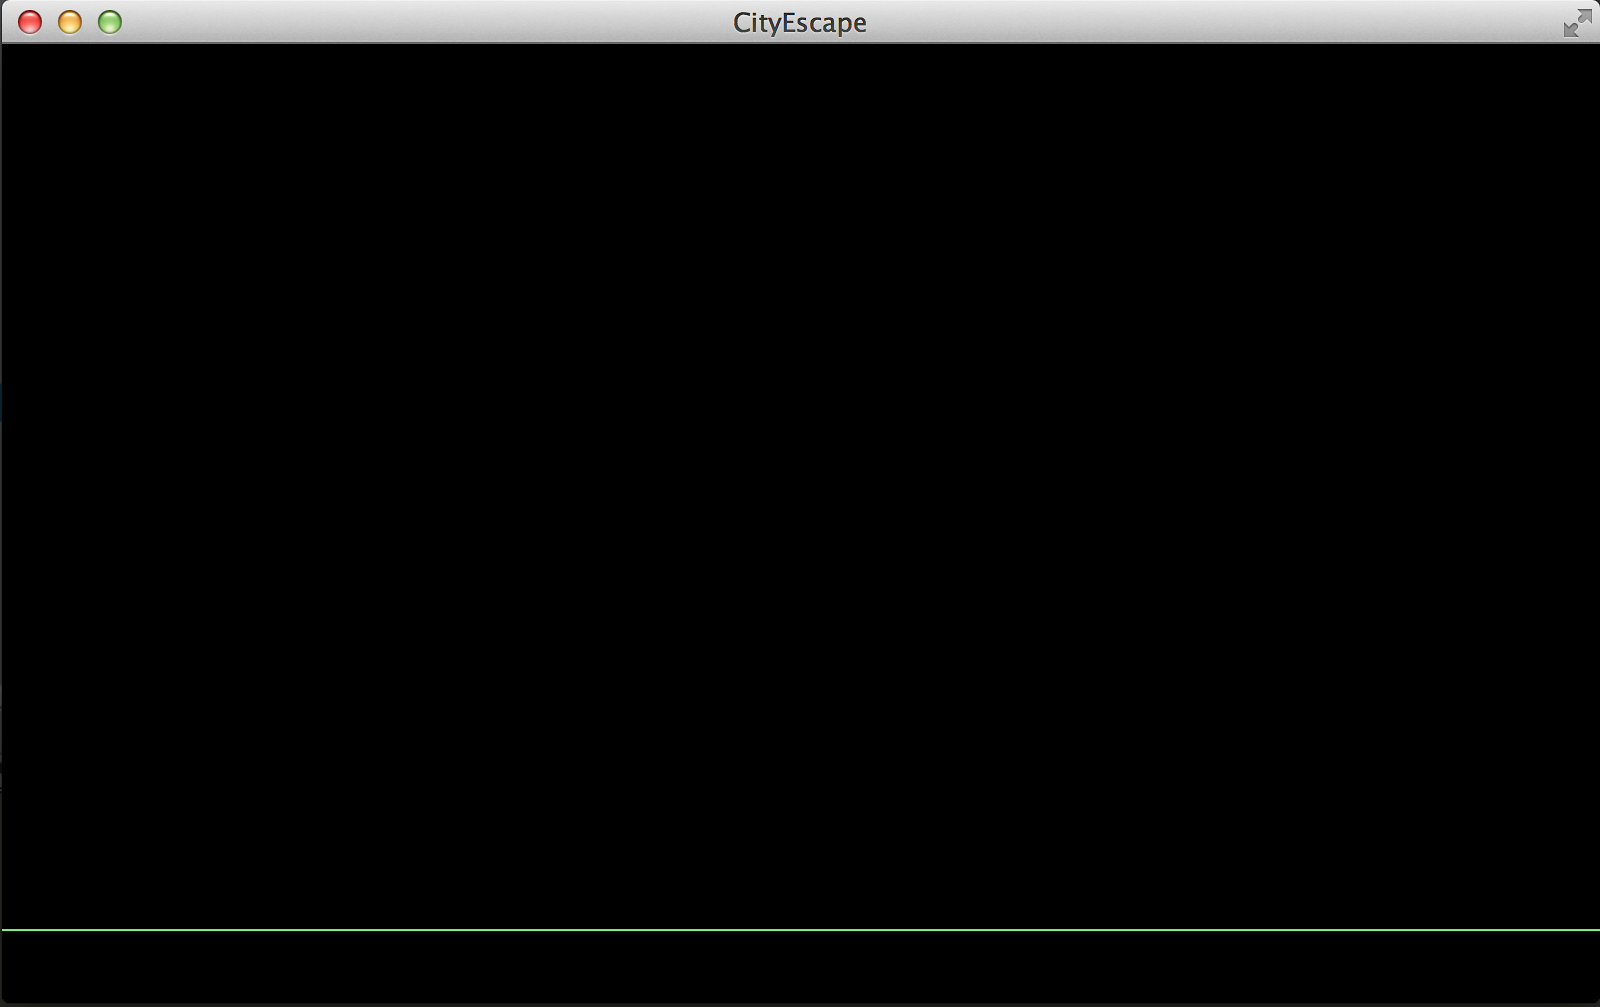
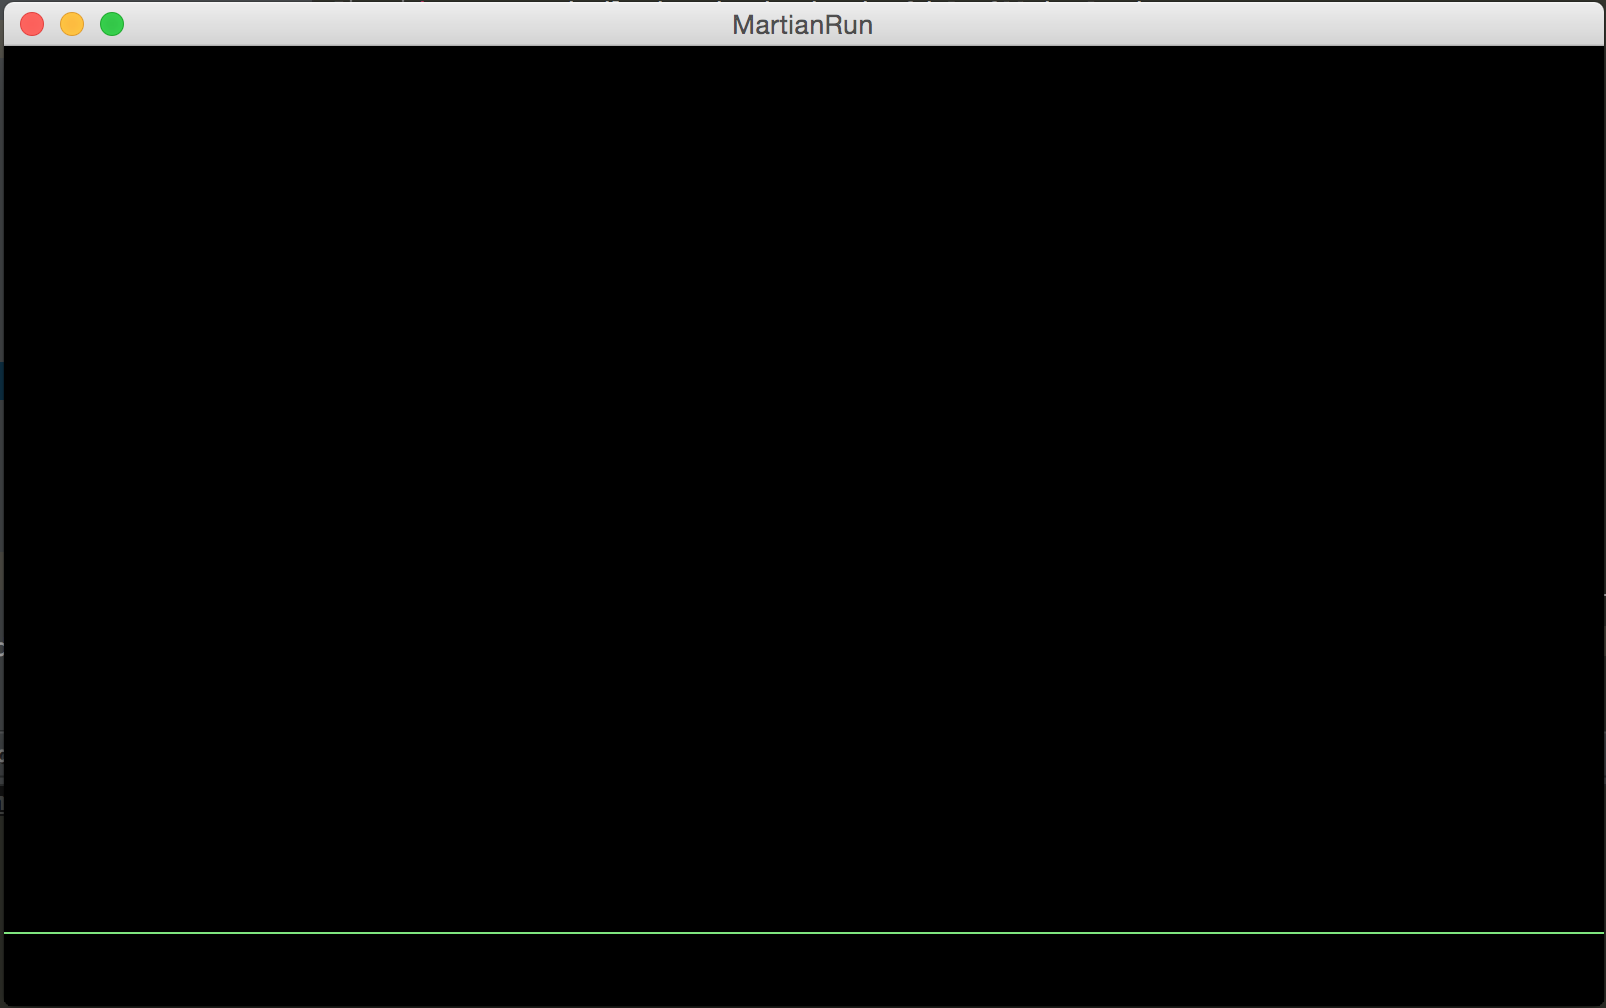
Assets change

Changed region(s): [[0.0, 0.0, 1.0, 0.0616], [0.9688, 0.9235, 1.0, 0.9543], [0.0, 0.9235, 0.0312, 0.9543]]

diff --git a/_posts/2014-06-07-a-running-game-with-libgdx-part-1.md b/_posts/2014-06-07-a-running-game-with-libgdx-part-1.md
@@ -383,7 +383,7 @@ public class GameScreen implements Screen {
 }
 ```
 
-Run the game and you'll see a green line at the bottom which is the outline of the box we added to our world (the ground). Your game should look like the image below (ignore the title, the original game name was modified before the first release):
+Run the game and you'll see a green line at the bottom which is the outline of the box we added to our world (the ground). Your game should look like the image below:
 
 <img src="{{ page.assets_url }}/world_with_ground.png" width=480 />
 
